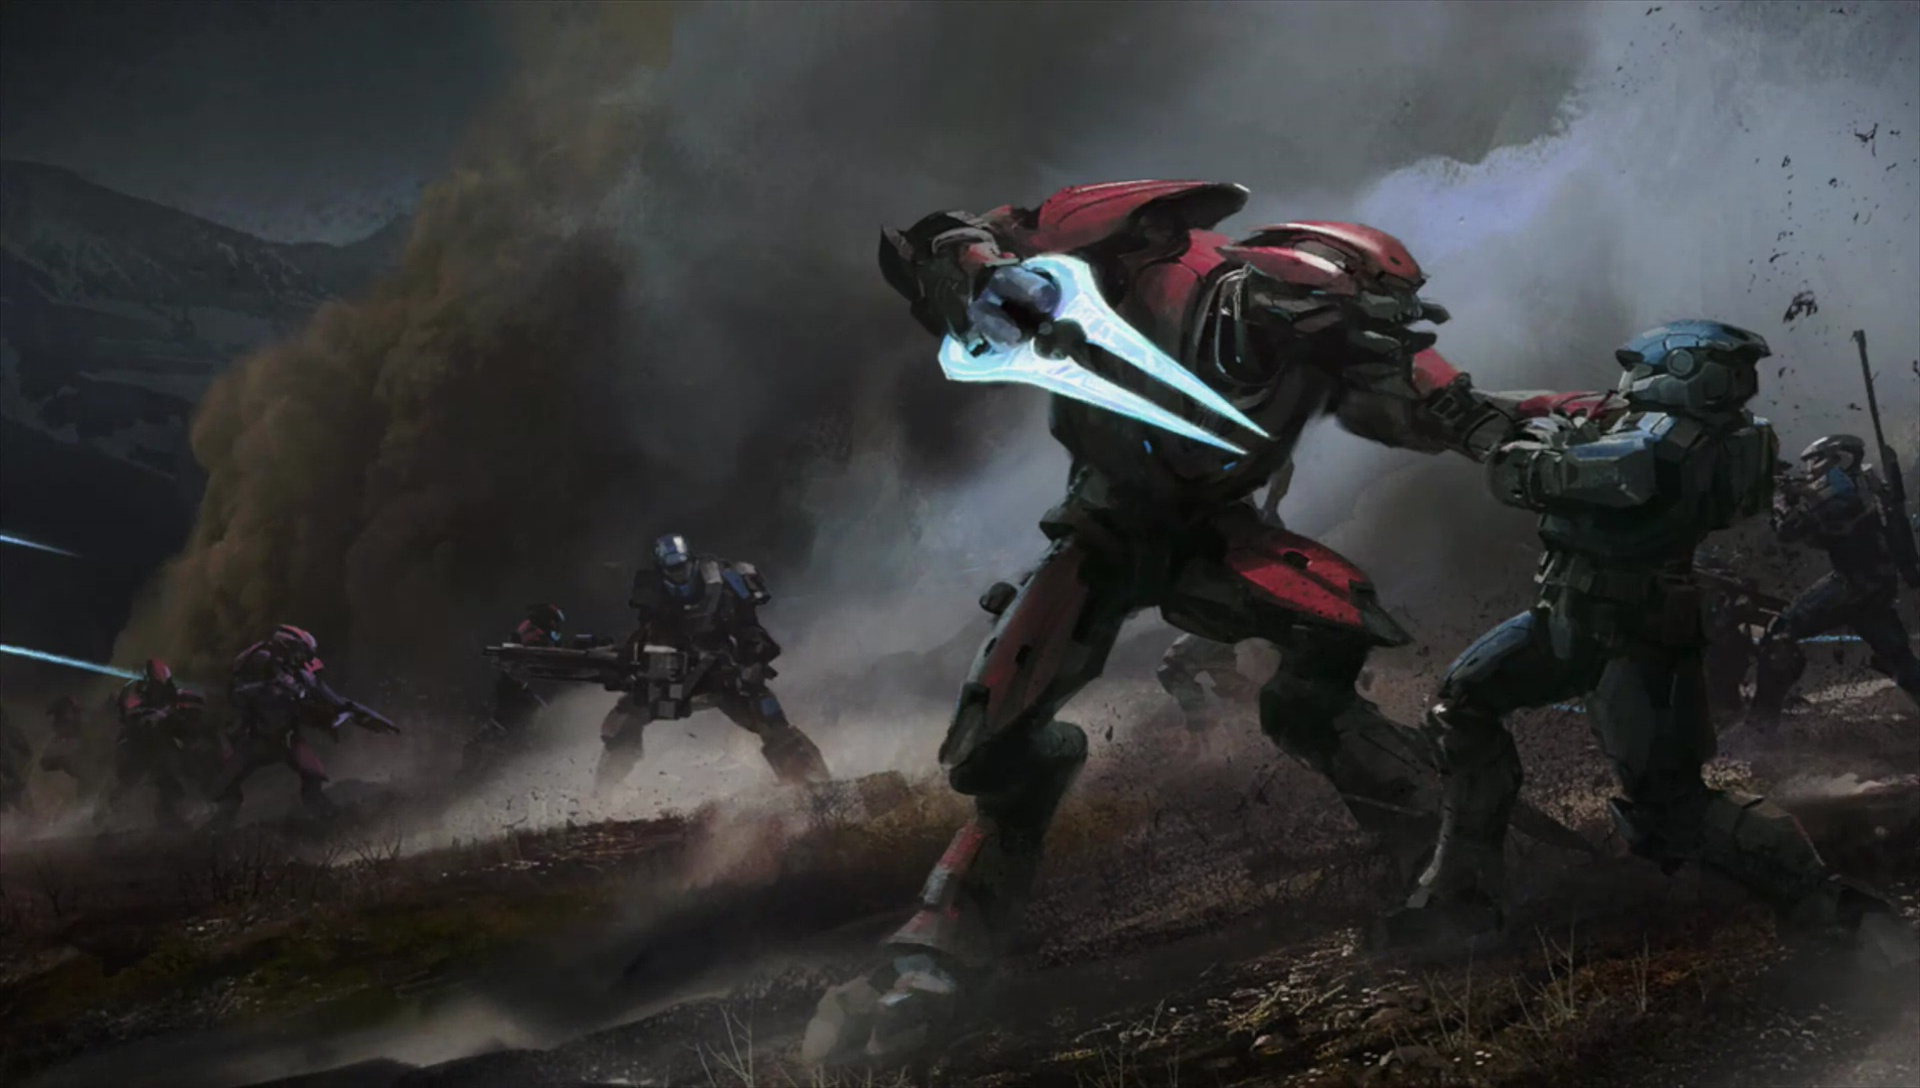
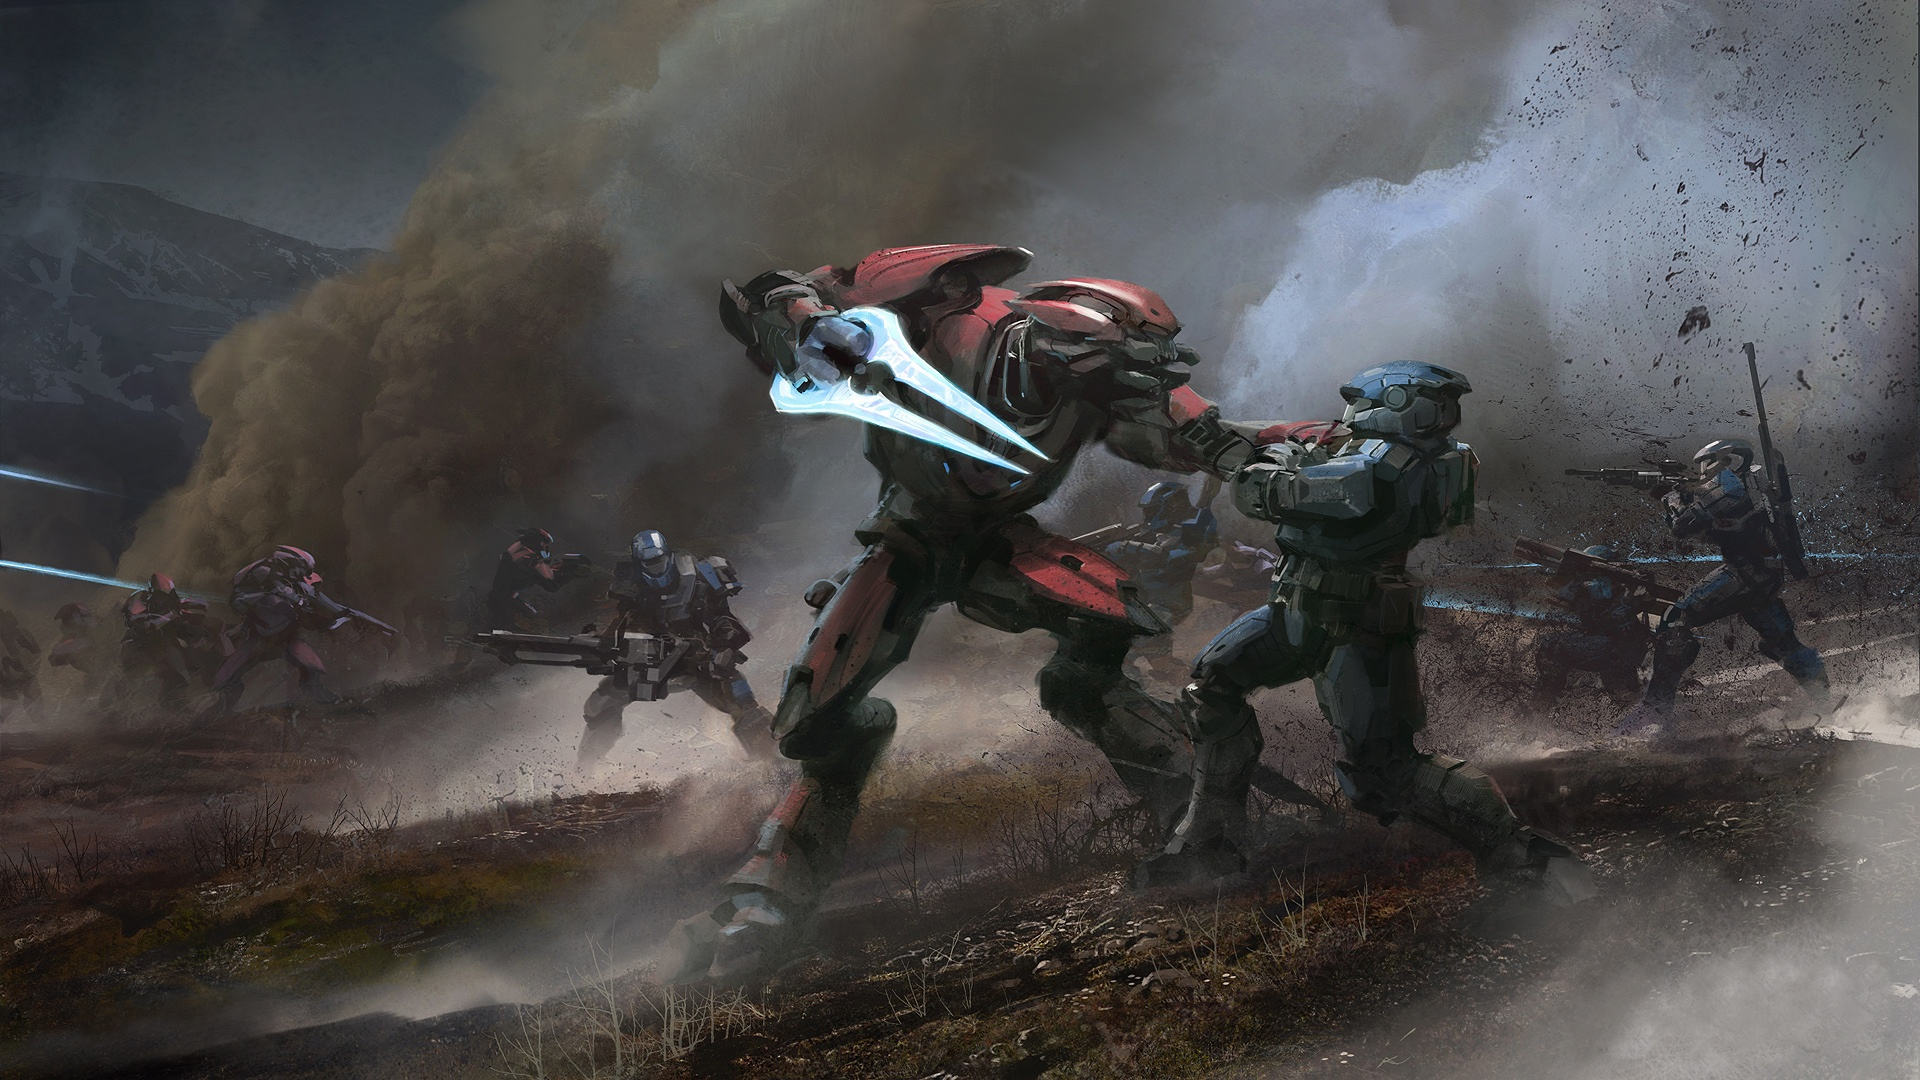
Static backgrounds by default
Use Settings.update("menu.staticbg","Off") to switch back to videos.

diff --git a/js/options.js b/js/options.js
@@ -148,8 +148,12 @@ var Options = {
                     for (var g = 0; g < sets.length; g++) {
                         var setting = Settings[categories[i]][sets[g]];
                         if (!setting.load) {
-                            setting.current = parseFloat(isset(localStorage.getItem(sets[g]), setting.original));
-                            console.log("Current: " + setting.current + ", Original: " + setting.original);
+                            setting.current = isset(localStorage.getItem(sets[g]), setting.original);
+                            if (setting.type == "number") {
+                                setting.current = parseFloat(setting.current);
+                            }
+                            console.log(sets[g]+": " + setting.current + " - " + setting.original);
+                            setting.return();
                         }
                     }
                 }
@@ -167,9 +171,56 @@ var Options = {
                 }
                 localStorage.setItem(p[1], setting.current);
                 return setting.return();
+            } else if (setting.type == "choice") {
+                setting.current = o;
+                localStorage.setItem(p[1], setting.current);
+                return setting.return();
             }
         },
         menu: {
+            background: {
+                type: "choice",
+                label: "Background",
+                original: "Halo Reach",
+                choices: [
+                    "Halo Reach",
+                    "Reach Act 1",
+                    "Reach Act 2",
+                    "Reach Act 3",
+                    "Halo CE",
+                    "Halo CEA",
+                    "Halo 2",
+                    "Halo 3",
+                    "Halo 3A",
+                    "Halo 3 ODST",
+                    "Halo 4",
+                    "Crash",
+                    "Waypoint",
+                    "Halo Reach Beta",
+                    "Skyline",
+                    "Relic",
+                    "Landfall",
+                    "Shrine",
+                    "Random"
+                ],
+                return: function() {
+                    var c = Settings.menu.background.current,
+                        s = Settings.menu.staticbg.current,
+                        dir = backgrounds[c].folder,
+                        files = backgrounds[c].files;
+                    $('#videos').empty();
+                    for(var i=0; i < files.length; i++) {
+                        var b = (i == 0) ? "bg1" : "bg-"+files[i];
+                        if (s == "Off") {
+                            $('#videos').append("<video id='"+ b +"' src='video/"+ dir + "/" + files[i] + ".webm' loop autoplay type='video/webm'></video>");
+                        } else {
+                            $('#videos').append("<img id='"+ b +"' src='img/backgrounds/"+ dir + "/" + files[i] + ".jpg'>");
+                        }
+                    }
+                    $('#bg1').show();
+                    return c;
+                }
+            },
             musicvolume: {
                 type: "number",
                 label: "Music Volume",
@@ -181,6 +232,20 @@ var Options = {
                     var c = Settings.menu.musicvolume.current;
                     Music.song.volume = c;
                     return (c * 100).toFixed(0);
+                }
+            },
+            staticbg: {
+                type: "choice",
+                label: "Static Background",
+                original: "On",
+                choices: [
+                    "On",
+                    "Off"
+                ],
+                return: function() {
+                    var c = Settings.menu.staticbg.current;
+                    Settings.menu.background.return();
+                    return c;
                 }
             }
         }

diff --git a/js/dewrito.js b/js/dewrito.js
@@ -37,6 +37,7 @@ function initialize() {
             }
         });
     });
+    Settings.menu.background.choices = Object.keys(backgrounds);
     for (i = 0; i < Object.keys(settings).length; i++) {
         var set = Object.keys(settings)[i],
             category = settings[set].category;
@@ -564,14 +565,12 @@ function startgame(ip, mode, pass) {
     $('#black').fadeIn(3000);
     delay(function() {
         if (mode[0] === "JOIN") {
-            //$('#hoImage').css('background-image','url(./img/' + settings.logo.labels[settings.logo.current] + '.png)');
             dewRcon.send('connect ' + ip + ' ' + password, function(ret) {
                 if (!ret.contains("Attempting")) {
                     $.snackbar({
                         content: ret
                     });
 
-                    $('#loading').hide();
                     $('#black').hide();
                     backButton.appendTo('body');
                     $.snackbar({
@@ -584,13 +583,6 @@ function startgame(ip, mode, pass) {
                 }
             });
             if (Lobby.status != "InLobby") {
-                $('#loadingMapName').text(Lobby.map.toString().toUpperCase().replace("BUNKERWORLD", "STANDOFF")); //lazy
-                $('#loadingMapImage').css('background-image', 'url(./img/loading/maps/' + getMapName(Lobby.mapFile.toString()).replace(/ /g, "").toLowerCase() + '.jpg)');
-                $('#loadingGametypeImage').css('background-image', 'url(./img/gametypes/' + Lobby.variantType.toString().capitalizeFirstLetter() + '.png)');
-                $('#mapOverlay').css('background-image', 'url(./img/loading/maps/' + Lobby.map.toString().replace(/ /g, "").toLowerCase() + '-overlay.png)');
-                $('#mapOverlay').css('opacity', '0.8');
-                $('#loading').show();
-                $('#back').hide();
                 setTimeout(function() {
                     dewRcon.send('Game.SetMenuEnabled 0');
                 }, 10000);
@@ -598,12 +590,6 @@ function startgame(ip, mode, pass) {
                 dewRcon.send('Game.SetMenuEnabled 0');
             }
         } else if (mode[1] === "FORGE") {
-            $('#loadingMapName').text(Lobby.map.toString().toUpperCase());
-            $('#loadingMapImage').css('background-image', 'url(./img/loading/maps/' + Lobby.map.toString().replace(/ /g, "").toLowerCase() + '.jpg)');
-            $('#loadingGametypeImage').css('background-image', 'url(./img/gametypes/' + Lobby.variantType.toString().capitalizeFirstLetter() + '.png)');
-            $('#mapOverlay').css('background-image', 'url(./img/loading/maps/' + Lobby.map.toString().replace(/ /g, "").toLowerCase() + '-overlay.png)');
-            $('#loading').show();
-            $('#back').hide();
             dewRcon.send('game.forceload ' + getMapFile($('#currentmap').text().toString().toLowerCase()) + ' 5')
         } else if (mode[0] === "START" && mode[1] === "GAME") {
             dewRcon.send('start');

diff --git a/js/menu.js b/js/menu.js
@@ -284,23 +284,34 @@ var Music = {
         "local": isset(localStorage.getItem('localbackground'), 0),
         "change": function(m) {
             if (Menu.pages[m]) {
-                var ch = Menu.pages[m];
+                var ch = Menu.pages[m],
+                    sbg = Settings.menu.staticbg.current;
                 if (ch.background) {
                     for (var i = 0; i < ch.background.length; i++) {
                         if ($('#bg-' + ch.background[i]).length && ch.background[i] != Menu.background) {
-                            $('#videos > video').fadeOut(anit);
-                            $('#videos > video')[0].pause();
-                            $('#bg-' + ch.background[i]).stop().fadeIn(anit);
-                            $('#bg-' + ch.background[i])[0].play();
+                            if(sbg == "Off") {
+                                $('#videos > video').fadeOut(anit);
+                                $('#videos > video')[0].pause();
+                                $('#bg-' + ch.background[i]).stop().fadeIn(anit);
+                                $('#bg-' + ch.background[i])[0].play();
+                            } else {
+                                $('#videos > img').fadeOut(anit);
+                                $('#bg-' + ch.background[i]).stop().fadeIn(anit);
+                            }
                             Menu.background = ch.background[i];
                         }
                     }
                 } else {
                     if (Menu.background != "default") {
-                        $('#videos > video').fadeOut(anit);
-                        $('#videos > video')[0].pause();
-                        $('#bg1').stop().stop().fadeIn(anit);
-                        $('#bg1')[0].play();
+                        if(sbg == "Off") {
+                            $('#videos > video').fadeOut(anit);
+                            $('#videos > video')[0].pause();
+                            $('#bg1').stop().stop().fadeIn(anit);
+                            $('#bg1')[0].play();
+                        } else {
+                            $('#videos > img').fadeOut(anit);
+                            $('#bg1').stop().stop().fadeIn(anit);
+                        }
                         Menu.background = "default";
                     }
                 }

diff --git a/js/settings.js b/js/settings.js
@@ -137,7 +137,7 @@ var catergories = {
             ],
             "increment": 1,
             "update": function() {
-                var videoURL = (Menu.domain == "http://orion.thefeeltra.in:8081") ? "http://orion.thefeeltra.in/video/" : "http://video.thefeeltra.in/";
+                /*var videoURL = (Menu.domain == "http://orion.thefeeltra.in:8081") ? "http://orion.thefeeltra.in/video/" : "http://video.thefeeltra.in/";
                 console.log("Videos served from " + videoURL + ".");
                 var c = settings.background.current,
                     l = settings.background.labels[c],
@@ -213,7 +213,7 @@ var catergories = {
                     } else {
                         $('#bg-cover').css('background', 'rgba(0,0,0,0.25)');
                     }
-                }
+                }*/
             }
         },
         "localbackground": {
@@ -973,5 +973,25 @@ var catergories = {
             "STANDOFF": "Once, nearby telescopes listened for a message from the stars. Now, these silos contain our prepared response.",
             "THE PIT": "Software simulations are held in contempt by the veteran instructors who run these training facilities.",
             "VALHALLA": "The crew of V-398 barely survived their unplanned landing in this gorge... this curious gorge."
+        }
+    },
+    backgrounds = {
+        "Halo Reach": {
+            "folder": "reach",
+            "files": [
+                "mainmenu",
+                "custom_games",
+                "matchmaking",
+                "firefight",
+                "forge"
+            ]
+        },
+        "Halo 3": {
+            "folder": "halo3",
+            "files": [
+                "mainmenu",
+                "multiplayer",
+                "forge"
+            ]
         }
     };

diff --git a/index.html b/index.html
@@ -73,15 +73,6 @@
 				</div>
 			</div>
 		</div>
-		<div id="loading">
-			<div id="loadingMapImage"></div>
-			<div id="loadingBars"></div>
-			<div id="hoImage"></div>
-			<div id="edImage"></div>
-			<div id="mapOverlay"></div>
-			<div id="loadingMapName">DIAMONDBACK</div>
-			<div id="loadingGametypeImage"></div>
-		</div>
 		<div id="players-online"></div>
 		<div id="black"></div>
 		<div id="back">Back</div>

diff --git a/css/dewrito.css b/css/dewrito.css
@@ -793,3 +793,13 @@ html {
 #friend-add:hover {
     background: rgba(0, 255, 55, 1);
 }
+
+#videos img {
+    position: absolute;
+    z-index: -1;
+    left: 0;
+    top: 0;
+    width: 1280px;
+    height: 720px;
+    display: none;
+}

diff --git a/README.md b/README.md
@@ -24,11 +24,11 @@ This work is licensed under a [Creative Commons Attribution-NonCommercial-ShareA
 - ~~Matchmaking with voting~~
 - Fix audio crackling/popping on sound effects
 - Style leaderboard
-- Make static images default background, adding setting for video
+- ~~Make static images default background, adding setting for video~~
 - Remove friends sidebar and merge functionality into the player list
 - Add server browser sorting
 - Make server list, music, and video server domains independent of each other
-- Remove loading screen elements (RIP Personality)
+- ~~Remove loading screen elements (RIP Personality)~~
 - Rename menu and github repo something more representative and unique
 - Come up with a name and domain for the dream team
 - Prevent users and developers from switching to Halo 5 Forge
